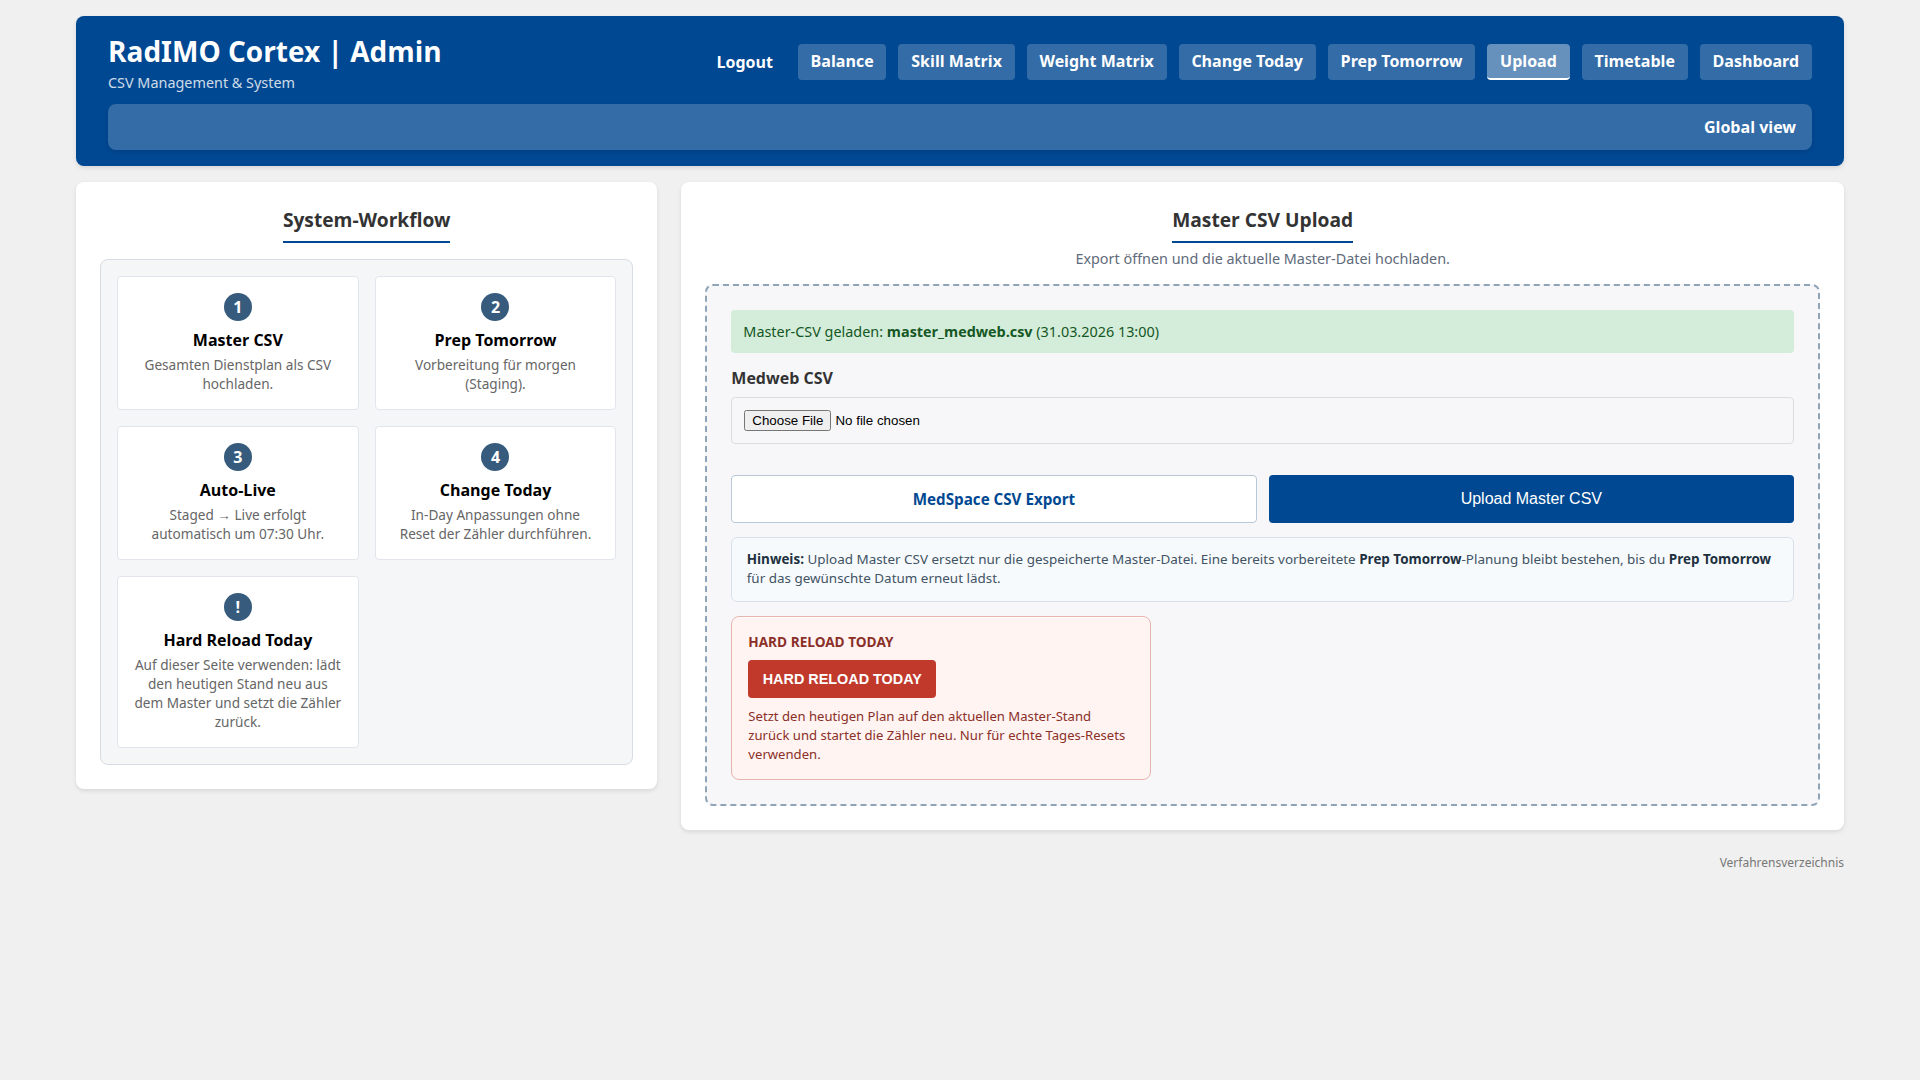
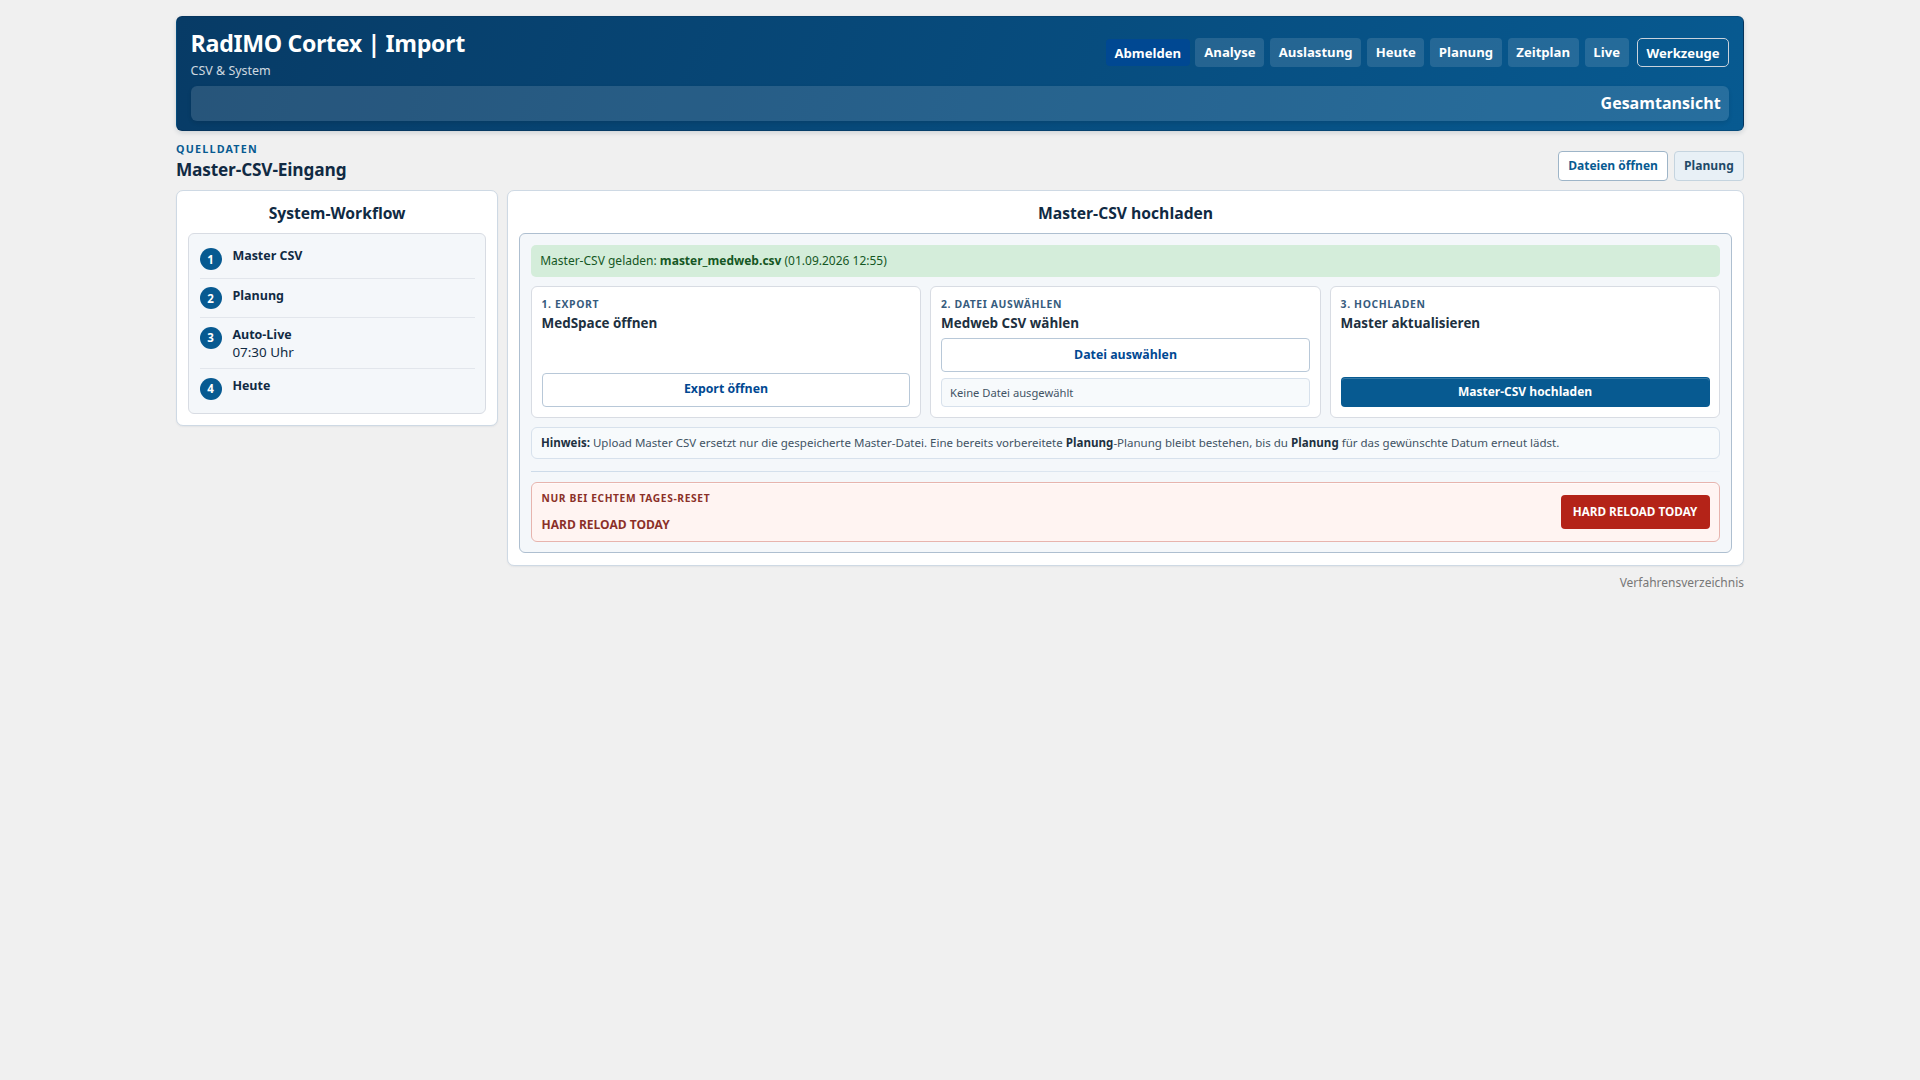
Use current Cortex screenshots on product page

diff --git a/docs/index.html b/docs/index.html
@@ -41,7 +41,7 @@
           </dl>
         </div>
         <figure class="screenshot-card hero-screenshot">
-          <img src="./assets/dashboard-ct-cropped.png" alt="RadIMO Cortex CT dashboard with modality and skill assignment controls" width="1920" height="690">
+          <img src="./assets/dashboard-ct-cropped.png" alt="RadIMO Cortex CT dashboard with modality and skill assignment controls" width="1920" height="650">
           <figcaption>Live CT dashboard with modality and skill controls. Real screen from a configured demonstration session.</figcaption>
         </figure>
       </section>
@@ -79,17 +79,17 @@
           <p class="section-lead">Cortex keeps the interface close to the reading room: what can be assigned, who is available, what needs to change, and how the load is developing.</p>
         </div>
         <div class="screens-grid">
-          <figure class="screenshot-card screen-card screen-card-tall">
-            <img src="./assets/change-today.png" alt="RadIMO Cortex Change Today page with worker skill matrix and timeline" width="1920" height="2325" loading="lazy">
+          <figure class="screenshot-card screen-card">
+            <img src="./assets/change-today.png" alt="RadIMO Cortex Today page with worker skill matrix and timeline" width="1920" height="1172" loading="lazy">
             <figcaption><strong>Change Today.</strong> Make live coverage changes, edit worker plans, and see the resulting timeline in one place.</figcaption>
           </figure>
-          <figure class="screenshot-card screen-card screen-card-tall">
-            <img src="./assets/prep-tomorrow.png" alt="RadIMO Cortex Prep Tomorrow page with staged schedule and timeline" width="1920" height="2377" loading="lazy">
+          <figure class="screenshot-card screen-card">
+            <img src="./assets/prep-tomorrow.png" alt="RadIMO Cortex Planning page with staged schedule and timeline" width="1920" height="1231" loading="lazy">
             <figcaption><strong>Planning.</strong> Prepare a selected future date, repeat the process across multiple days, and keep staging separate from live work.</figcaption>
           </figure>
-          <figure class="screenshot-card screen-card screen-card-medium">
-            <img src="./assets/worker-load-simple.png" alt="RadIMO Cortex Balance page with global, modality, and skill load summaries" width="1920" height="1630" loading="lazy">
-            <figcaption><strong>Balance.</strong> See global, per-modality, and per-skill load at a glance.</figcaption>
+          <figure class="screenshot-card screen-card">
+            <img src="./assets/worker-load-simple.png" alt="RadIMO Cortex Balance page with load filters and worker load bars" width="1920" height="1080" loading="lazy">
+            <figcaption><strong>Balance.</strong> Inspect load with filters, color modes, and load bars.</figcaption>
           </figure>
           <figure class="screenshot-card screen-card screen-card-medium">
             <img src="./assets/admin-upload.png" alt="RadIMO Cortex Admin page showing the Master CSV upload workflow" width="1920" height="1080" loading="lazy">

diff --git a/README.md b/README.md
@@ -27,7 +27,7 @@ This is a coordination product for radiology operations. It does not interpret i
 - Two UI modes: by modality or by skill
 - Two-level fallback for high availability
 - Master CSV integration for monthly schedule management
-- Admin system for skills, live-day changes, next-day planning, corrections, weights, files, logs, and settings
+- Admin system for skills, live-day changes, multiday planning, corrections, weights, files, logs, and settings
 - Worker skill roster admin portal with matrix-based management
 - GAP handling (split shifts) for meetings and boards
 - Smart skill filtering on planning and Schedule views
@@ -76,7 +76,7 @@ Admin pages require a session via `/login` when `admin_access_protection_enabled
 | Analysis | `/performance` | Management-level balance overview |
 | Workload | `/worker-load` | Detailed load monitoring |
 | Today | `/prep-today` | Edit the current live schedule |
-| Planning | `/prep-tomorrow` | Prepare a staged workday |
+| Planning | `/prep-tomorrow` | Prepare staged future workdays |
 | Corrections | `/manual-adjustments` | Publish manual load corrections |
 | Skills | `/skill-roster` | Edit worker skills |
 | Weights | `/button-weights` | Configure button and special-task weights |
@@ -139,7 +139,7 @@ Where each control lives:
 ### Admin Pages
 1. **Analysis** (`/performance`) - Management overview
 2. **Workload** (`/worker-load`) - Simple summary, advanced matrix, and flow chart
-3. **Today / Planning** (`/prep-today`, `/prep-tomorrow`) - Live and staged schedule editing
+3. **Today / Planning** (`/prep-today`, `/prep-tomorrow`) - Live edits and multiday staged planning
 4. **Corrections** (`/manual-adjustments`) - Manual load adjustments
 5. **Skills / Weights** (`/skill-roster`, `/button-weights`) - Worker capabilities and routing weights
 6. **Import / Tools** (`/upload`, `/admin/tools`) - Source data and operations
@@ -151,7 +151,7 @@ Where each control lives:
 - **Skill View** (`/by-skill`) - Main assignment view by skill
 - **Schedule** (`/timetable`) - Visual timeline of shifts and gaps
 - **Today** (`/prep-today`) - Live edits for the current day
-- **Planning** (`/prep-tomorrow`) - Staged edits for a selected workday
+- **Planning** (`/prep-tomorrow`) - Staged edits for selected future workdays
 - **Tools menu** - Corrections, Skills, Weights, Import, Files, Logs, Settings, and Status
 
 ### Master CSV Semantics
